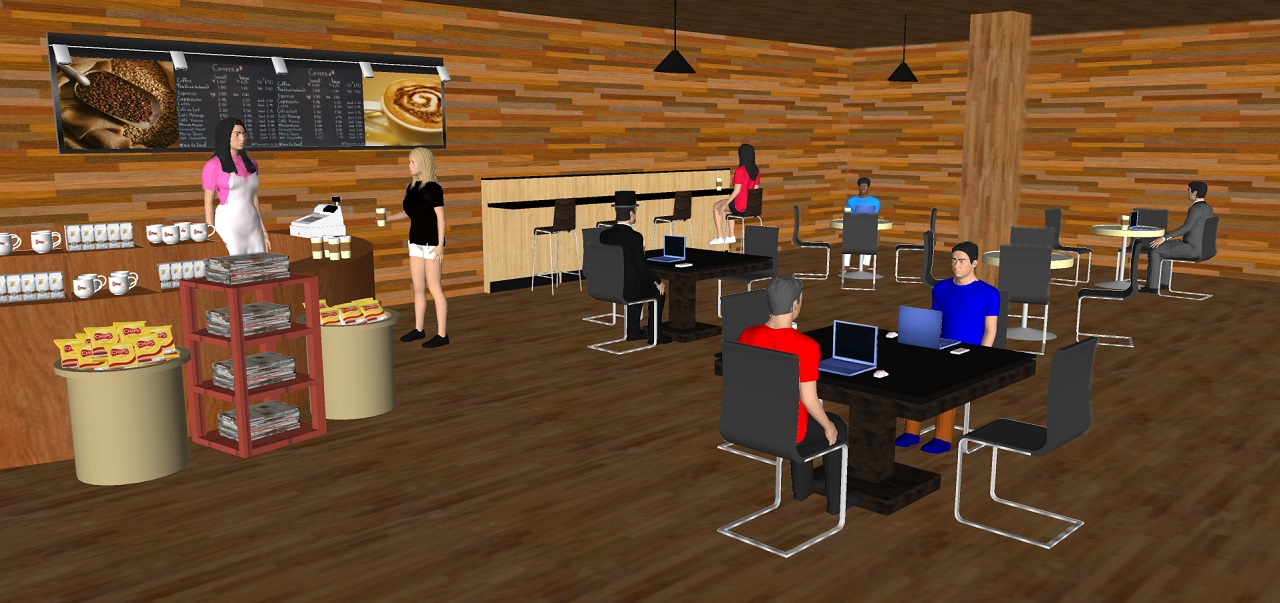
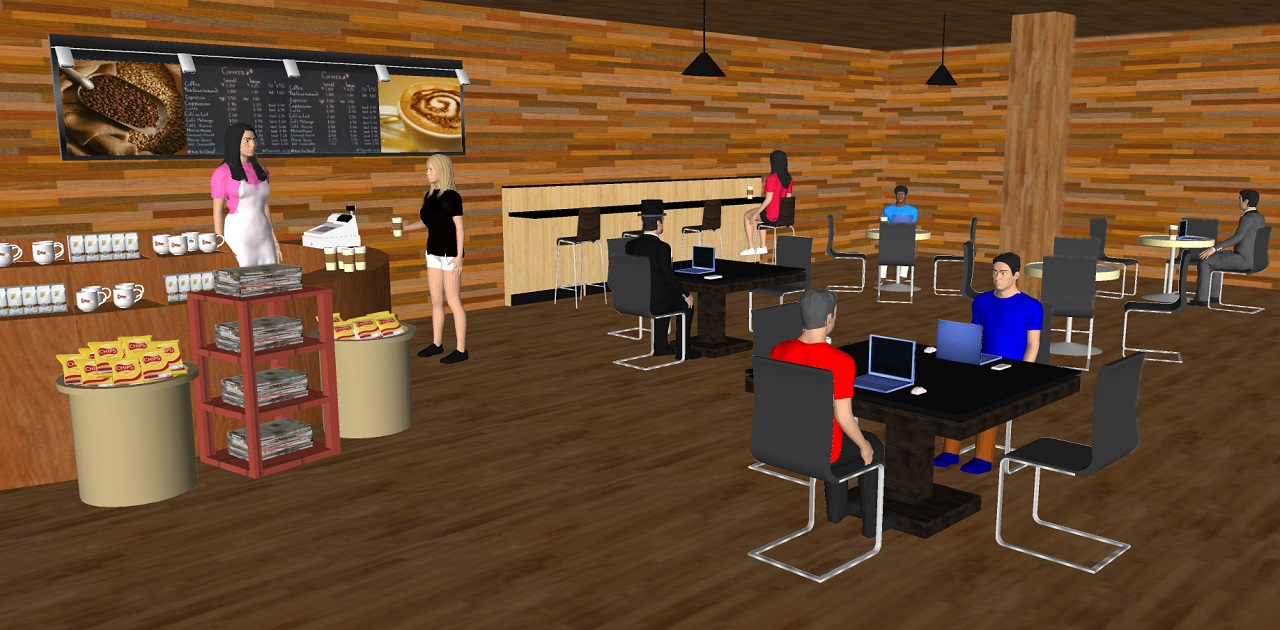
Fixed error with image resolution causing whitespace to appear at the bottom of the canvas, adjusted hitboxes appropriately.

diff --git a/CoffeeShop.html b/CoffeeShop.html
@@ -210,7 +210,7 @@
 		}
 		// End compatibility code, posx & posy contain the clicked position
 		
-		print("Click at x: " + posx + " y: " + posy);
+		//print("Click at x: " + posx + " y: " + posy);
 		
 		// Cause event(s) to occur based on the location of the mouse click.
 		
@@ -317,7 +317,7 @@
 	var spoken_to_all_suspects = false;
 	var entry_message_shown = false;
 	var incorrect_guesses = 0;
-	var manager = new Button (179, 131, 269, 287, function () { 
+	var manager = new Button (215, 135, 289, 288, function () { 
 		if (spoken_to_all_witnesses && spoken_to_all_suspects) {
 			say("Manager", "Do you know who did it?", function () { 
 				say("", "Click on the person responsible for these crimes!", closeDialogue());
@@ -336,7 +336,7 @@
 			manager.setEnabled(false);
 		}
 	});
-	var witness1 = new Button (735, 159, 776, 218, function () { 
+	var witness1 = new Button (771, 182, 800, 232, function () { 
 		say(player_name, "Good morning. I'm a detective investigating the robberies that have been occurring here. What can you tell me?", function () {
 			say("Shorts", "I ordered Halloween decorations for my house online through amazon.com, using a credit card, last week while sitting in this cafe. The tracking on the package said that the decorations had indeed shipped, " +
 			"and are in a warehouse in Clarksville, Maryland, and probably will be delivered in one or two days. I used my card once in the grocery store since then, but on my credit card bill I noticed that there was also a charge " +
@@ -345,7 +345,7 @@
 		spoken_to_witness1 = true; 
 		witness1.setEnabled(false); 
 	});
-	var witness2 = new Button (856, 204, 887, 228, function () {
+	var witness2 = new Button (892, 215, 927, 238, function () {
 		say(player_name, "Hello. I'm a detective investigating the robberies that happened here. Do you have any information that could help me?", function () { 
 			say("White Pants", "I was in a hurry coming into work yesterday and did not have time to pay my credit card bill at my house. Since I cannot live without my morning coffee, I came here and paid my bill online. The " +
 				"payment was successfully received, but that afternoon, when I went to the ATM to withdraw some cash, I found that my bank account balance, which should have been $342, was 0. I then went to the bank for a statement " +
@@ -354,7 +354,7 @@
 		spoken_to_witness2 = true; 
 		witness2.setEnabled(false); 
 	});
-	var tophat = new Button (606, 239, 672, 305, function () { 
+	var tophat = new Button (630, 246, 702, 318, function () { 
 		say(player_name, "Hello, sir. I'm a detective investigating the robberies that happened here. Can you tell me anything about what happened to you?", function () { 
 			say("Top Hat", "Two days ago, I was here, browsing the internet on my laptop looking for top hats, because I need one for my role as Abraham Lincoln in the theatre production I am a part of. I purchased one online from" +
 				" amazon.com, using a credit card. The purchase itself was not a scam, for the top hat did arrive as promised. I'm wearing it now. I haven't made any other purchases with the card since, so I am pretty sure my card" +
@@ -363,7 +363,7 @@
 		spoken_to_tophat = true; 
 		tophat.setEnabled(false); 
 	});
-	var suspect1 = new Button (746, 336, 854, 442, function () { 
+	var suspect1 = new Button (779, 349, 892, 464, function () { 
 		if (spoken_to_all_witnesses && spoken_to_all_suspects) {
 			incorrect_guesses++;
 			say(player_name, "The man in the red shirt is responsible.", function () {
@@ -390,7 +390,7 @@
 			suspect1.setEnabled(false); 
 		}
 	});
-	var suspect2 = new Button (1160, 210, 1225, 268, function () { 
+	var suspect2 = new Button (1207, 221, 1277, 275, function () { 
 		if (spoken_to_all_witnesses && spoken_to_all_suspects) {
 			incorrect_guesses++;
 			say(player_name, "The man in the gray suit is responsible.", function () {
@@ -423,7 +423,7 @@
 			suspect2.setEnabled(false); 
 		}
 	});
-	var culprit = new Button (841, 292, 1001, 355, function () { 
+	var culprit = new Button (980, 301, 1044, 371, function () { 
 		if (spoken_to_all_witnesses && spoken_to_all_suspects) {
 			say(player_name, "The man in the blue shoes is responsible.", function () { 
 				say("Manager", "Okay, I'll call the police.", function () {
